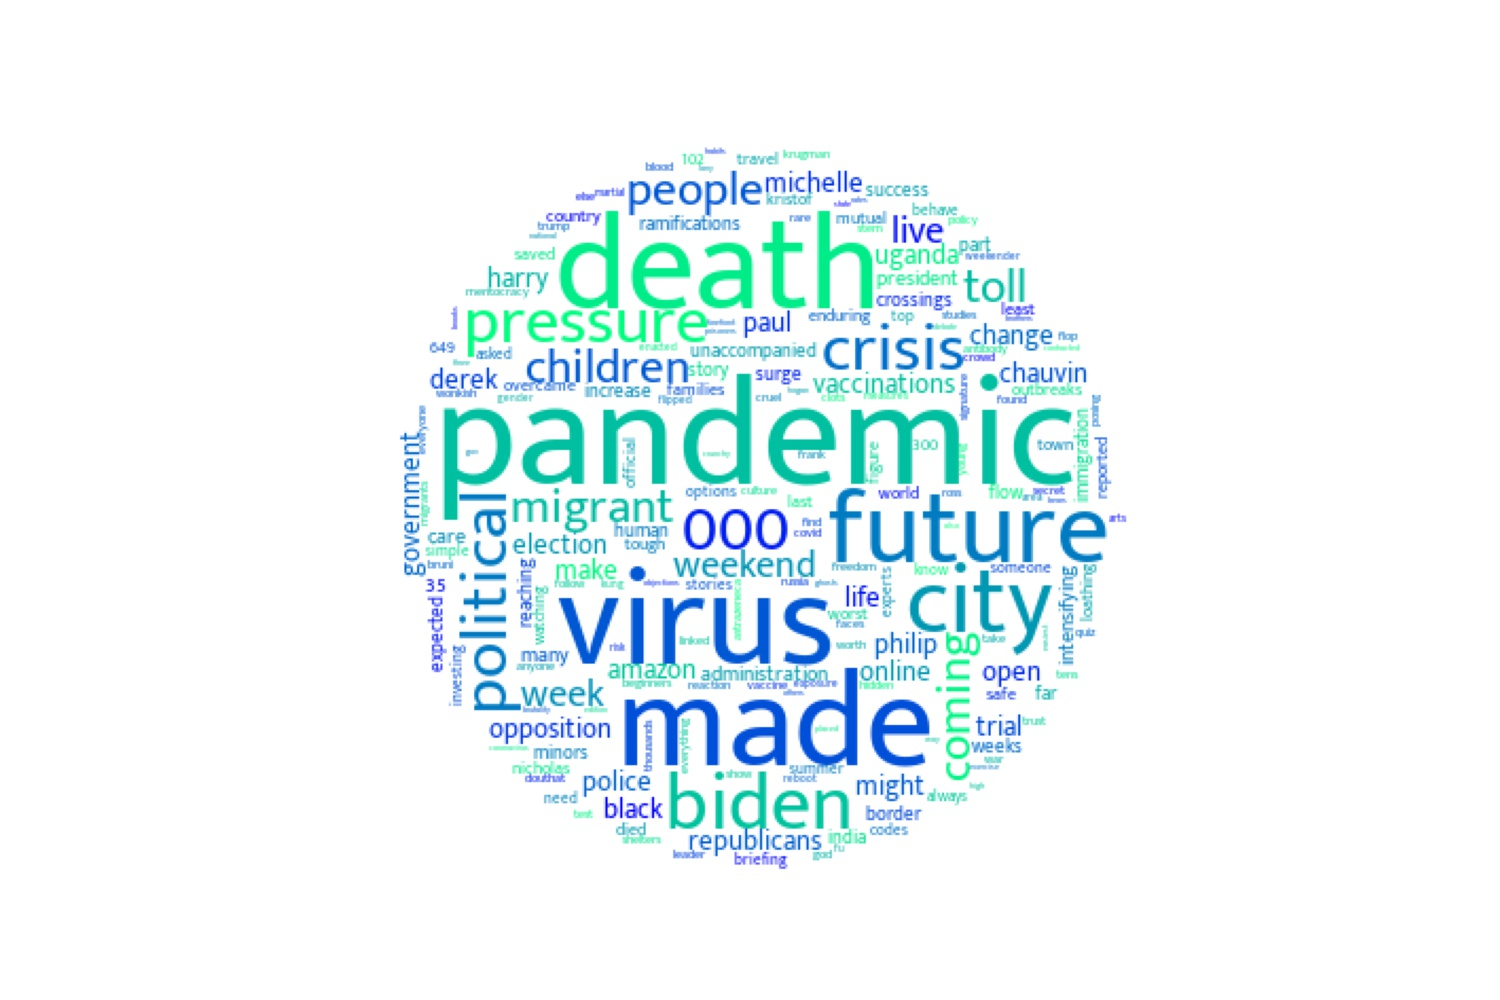
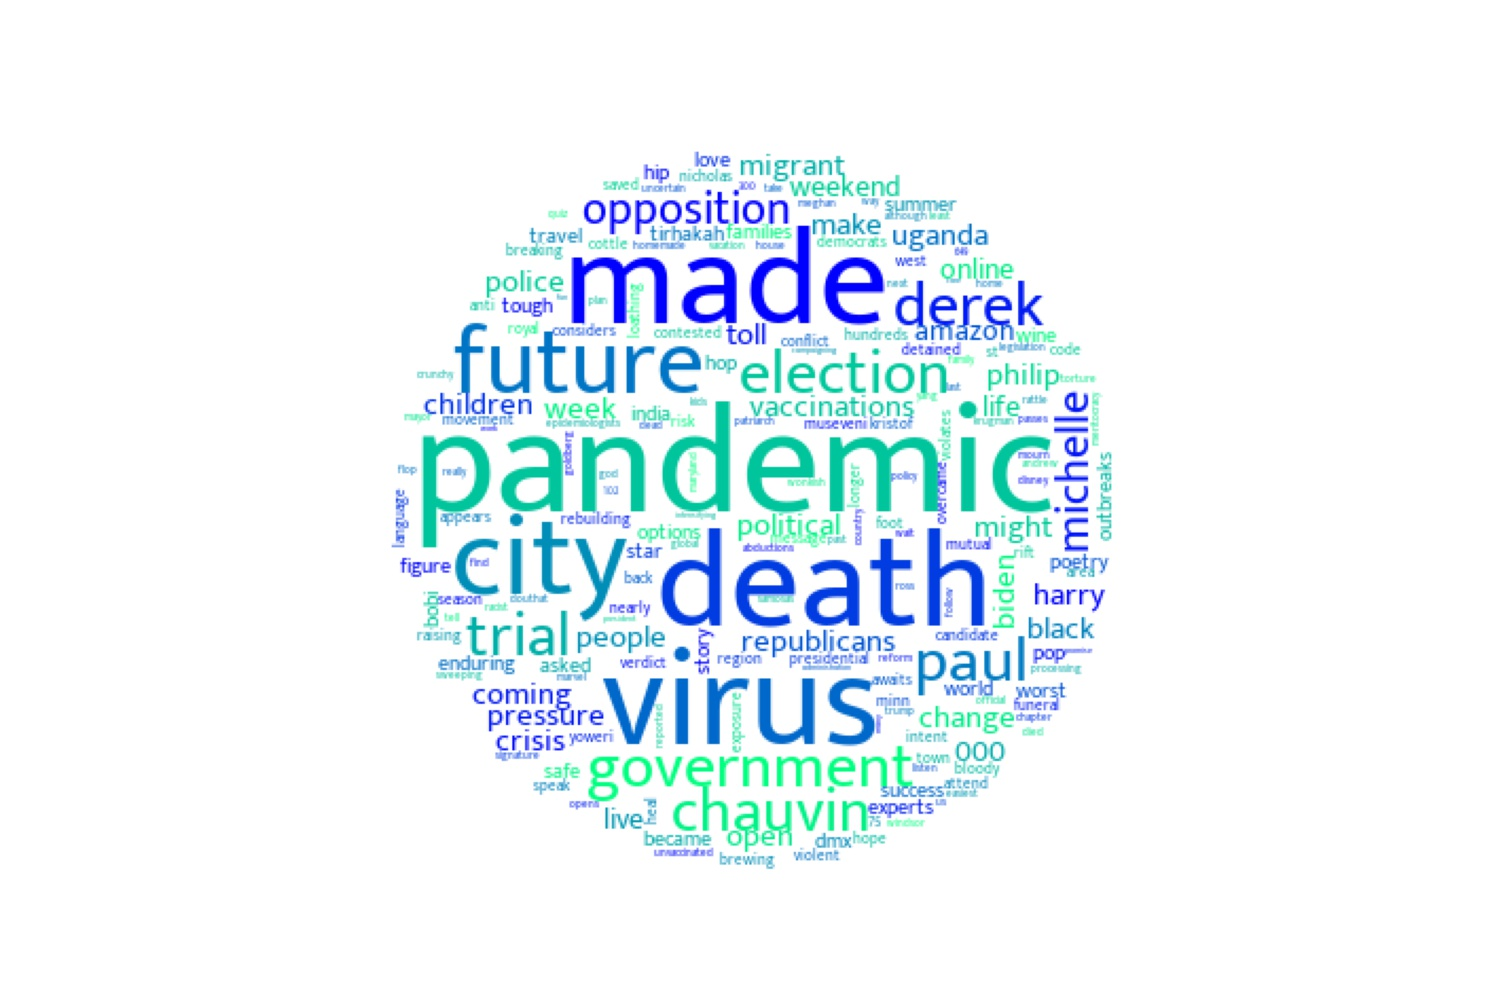
updated app to generate word clouds

Changed region(s): [[0.2453, 0.124, 0.7667, 0.868]]

diff --git a/streamlit/cloudy-headlines-streamlit.py b/streamlit/cloudy-headlines-streamlit.py
@@ -3,7 +3,72 @@ import streamlit.components.v1 as components
 import os
 import datetime
 
-LAST_UPDATED = open('streamlit/last_updated.txt','r').read()
+import pandas as pd
+import requests
+import datetime
+import numpy as np
+from sklearn.feature_extraction.text import CountVectorizer
+import nltk
+from nltk.corpus import stopwords
+from wordcloud import WordCloud
+from matplotlib import pyplot as plt
+from PIL import Image, ImageOps
+import psycopg2
+import os
+
+
+def make_word_clouds():
+	nltk.download('stopwords')
+
+
+	stop_words = set(stopwords.words('english')).union(set(['may','say','says','said','could','new','like','one','two','year','get','still','since','news']))
+	stop_words.remove('all')
+	site_specific_stop_words = {'https:www.foxnews.com':['fox'],
+	                           'https://nytimes.com':['new','york','times']}
+
+
+	connection = psycopg2.connect(os.environ['dsn'])
+	q = """
+	select *
+	from (select *,rank() over (partition by domain order by timestamp desc) as r from public.headlines) h
+	where r = 1
+	"""
+	headlines = pd.read_sql(q,connection).replace('', np.nan).dropna()
+	headlines_dict = {domain:{'stories':list(set(headlines[headlines.domain == domain].headline,)),
+	                          'timestamp':headlines[headlines.domain == domain].timestamp.max() }for domain in headlines.domain.unique()}
+	def word_clouds(stories_dict,n,min_occurences=0):
+	    
+	    plots = []
+	    if 'mask.png' not in os.listdir('templates'):
+	      mask_bytes = requests.get('https://gist.githubusercontent.com/teoliphant/7709098/raw/e826895ca1d8d85b20265b6759f1d64086e29dd7/circ_mask.png').content                       
+	      open('templates/mask.png','wb').write(mask_bytes)
+	    mask = np.array(ImageOps.invert(Image.open('templates/mask.png')))
+	    for i,root in enumerate(stories_dict.keys()):
+	        fig,ax = plt.subplots(figsize=(15,10))
+	        stories = stories_dict[root]['stories']
+	        vectorizer = CountVectorizer(ngram_range=(n,n),stop_words = stop_words.union(set(site_specific_stop_words.get(root,[]))))
+	        bag_of_words = vectorizer.fit_transform(stories)
+	        frequencies = bag_of_words.sum(axis = 0)
+	        frequency_dict = {word:frequencies[0, idx] for word, idx in vectorizer.vocabulary_.items() if frequencies[0, idx] > min_occurences}
+	        
+	        
+	        wordcloud = WordCloud(colormap='winter',
+	                              font_path = 'fonts/MuktaMahee.ttc',
+	                              prefer_horizontal = .95,
+	                              mask = mask,
+	                              scale=1,
+	                              background_color='white',).generate_from_frequencies(frequencies = frequency_dict)
+	        
+	        ax.imshow(wordcloud)
+	        ax.axis('off')
+	        d = root.replace("https://","").replace("www.","").replace(".com","").split("/")[0]
+	        path = f'clouds/{n}/{d}-{stories_dict[root]["timestamp"].strftime("%Y-%m-%dT%HH")}.jpg'
+	        open('streamlit/last_updated.txt','w').write(stories_dict[root]["timestamp"].strftime("%Y-%m-%dT%HH"))
+
+	        plt.savefig(path)
+
+	for n in [1,2]:
+		word_clouds(headlines_dict,n)
 
 def make_header():
 	st.title('Cloudy Headlines')
@@ -26,6 +91,17 @@ def make_images(selection):
 			unsafe_allow_html=True)
 		columns[i%2].image(image,use_column_width=True)
 
+LAST_UPDATED = open('streamlit/last_updated.txt','r').read().replace("\n","")
+
 if __name__ == '__main__':
+	if datetime.datetime.strptime(LAST_UPDATED,"%Y-%m-%dT%HH").date() < datetime.datetime.today().date():
+		word_cloud_state = st.text('Generating word clouds...')
+		make_word_clouds()
+		LAST_UPDATED = open('streamlit/last_updated.txt','r').read().replace("\n","")
+		word_cloud_state = st.text('')
+
+
 	make_header()
 	dropdown()
+
+
